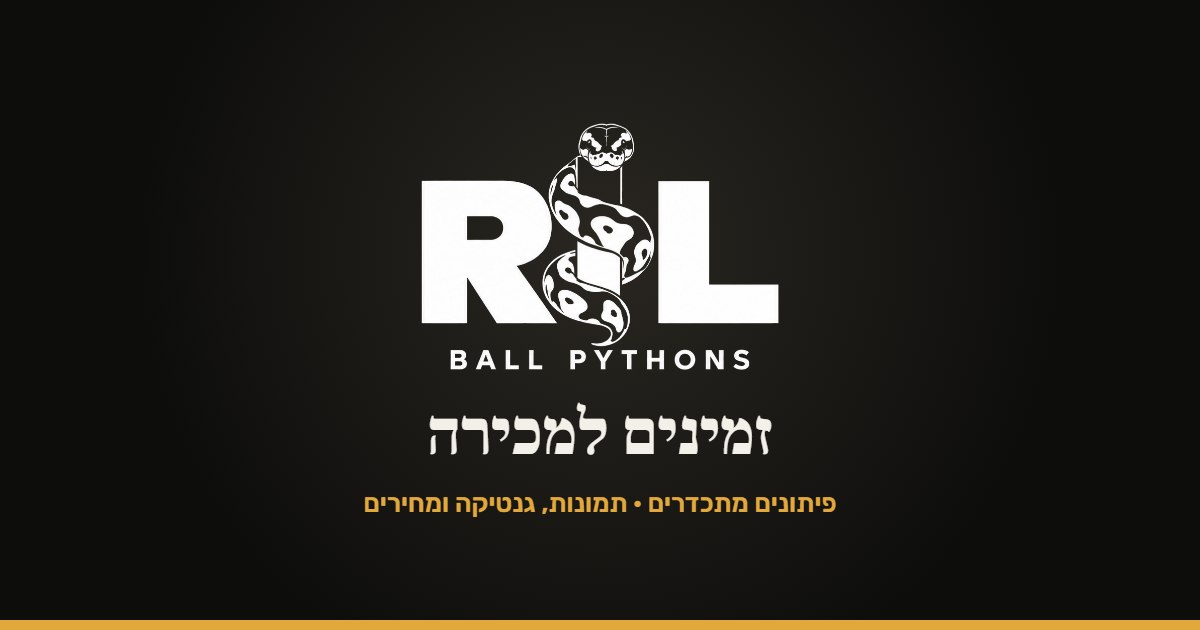
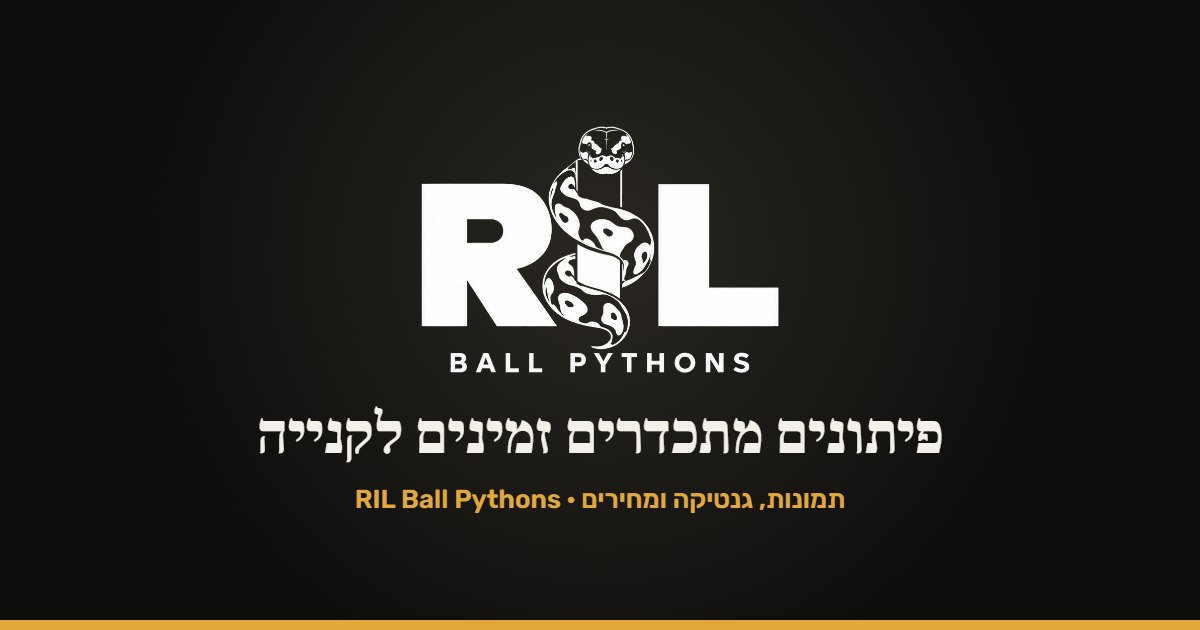
Catalog title: 'פיתונים מתכדרים זמינים לקנייה'
The customer page, its link preview image and the in-app catalog now use the new title.

diff --git a/shop/index.html b/shop/index.html
@@ -4,11 +4,11 @@
 <meta charset="UTF-8">
 <meta name="viewport" content="width=device-width, initial-scale=1, viewport-fit=cover">
 <meta name="color-scheme" content="dark">
-<title>RIL Ball Pythons · זמינים למכירה</title>
-<meta name="description" content="פיתונים מתכדרים זמינים למכירה מ־RIL Ball Pythons">
+<title>RIL Ball Pythons · פיתונים מתכדרים זמינים לקנייה</title>
+<meta name="description" content="פיתונים מתכדרים זמינים לקנייה מ־RIL Ball Pythons">
 <meta property="og:type" content="website">
 <meta property="og:site_name" content="RIL Ball Pythons">
-<meta property="og:title" content="RIL Ball Pythons · זמינים למכירה">
+<meta property="og:title" content="RIL Ball Pythons · פיתונים מתכדרים זמינים לקנייה">
 <meta property="og:description" content="פיתונים מתכדרים זמינים למכירה: תמונות, גנטיקה ומחירים">
 <meta property="og:image" content="https://altermanlavi-png.github.io/ril--ball-pythons/shop/og.jpg">
 <meta property="og:image:width" content="1200">
@@ -70,7 +70,7 @@
 </head>
 <body>
 <div class="wrap">
-  <header><img src="../genetics/logo.jpg" alt="RIL Ball Pythons"><div><h1>זמינים למכירה</h1><p class="sub" id="count">RIL Ball Pythons</p></div></header>
+  <header><img src="../genetics/logo.jpg" alt="RIL Ball Pythons"><div><h1>פיתונים מתכדרים זמינים לקנייה</h1><p class="sub" id="count">RIL Ball Pythons</p></div></header>
   <div class="chips" id="chips" hidden></div>
   <div id="list"><p class="msg">טוען…</p></div>
   <footer>RIL Ball Pythons</footer>

diff --git a/index.html b/index.html
@@ -4846,7 +4846,7 @@ var qrcode = function() {
   }
   function shopView() {
     var all = db.snakes.filter(function (s) { return s.status === 'forsale'; }), list = shopSnakes();
-    var h = '<div class="shophead"><img src="' + LOGO + '" alt="RIL Ball Pythons"><div><h1 class="title">זמינים למכירה</h1><p class="sub">' + (all.length ? all.length + (all.length === 1 ? ' נחש זמין' : ' נחשים זמינים') : 'RIL Ball Pythons') + '</p></div></div>';
+    var h = '<div class="shophead"><img src="' + LOGO + '" alt="RIL Ball Pythons"><div><h1 class="title">פיתונים מתכדרים זמינים לקנייה</h1><p class="sub">' + (all.length ? all.length + (all.length === 1 ? ' נחש זמין' : ' נחשים זמינים') : 'RIL Ball Pythons') + '</p></div></div>';
     if (!ui.customer) {
       h += '<div class="shoplinkbox"><button class="btn btn-primary wide" type="button" data-act="copyshoplink">🔗 העתקת קישור ללקוחות</button>' +
         '<p class="hint" style="margin-top:6px">הלקוח רואה רק את הנחשים שמסומנים "למכירה". בלי כניסה, ובלי גישה לשום דבר אחר באפליקציה. כל שינוי כאן מתעדכן בקישור לבד.</p>' +
